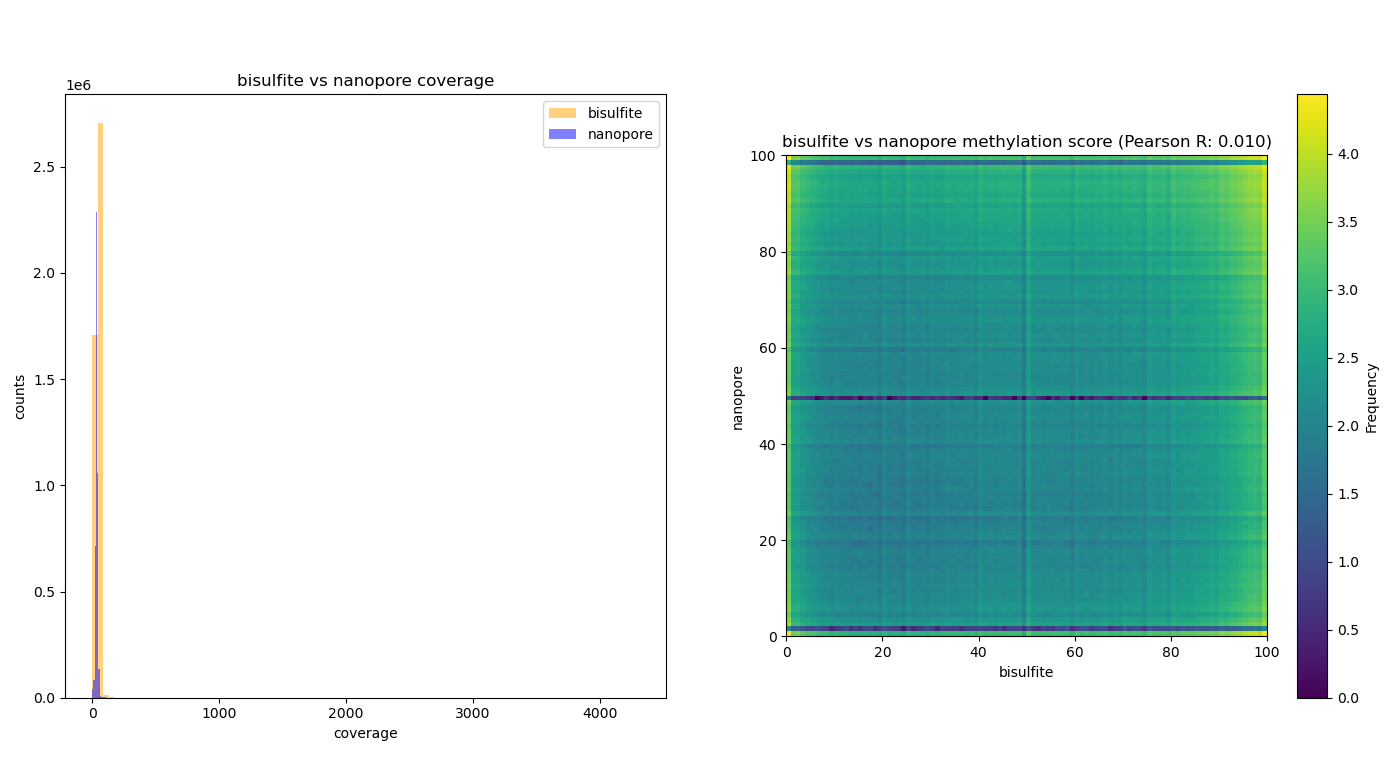
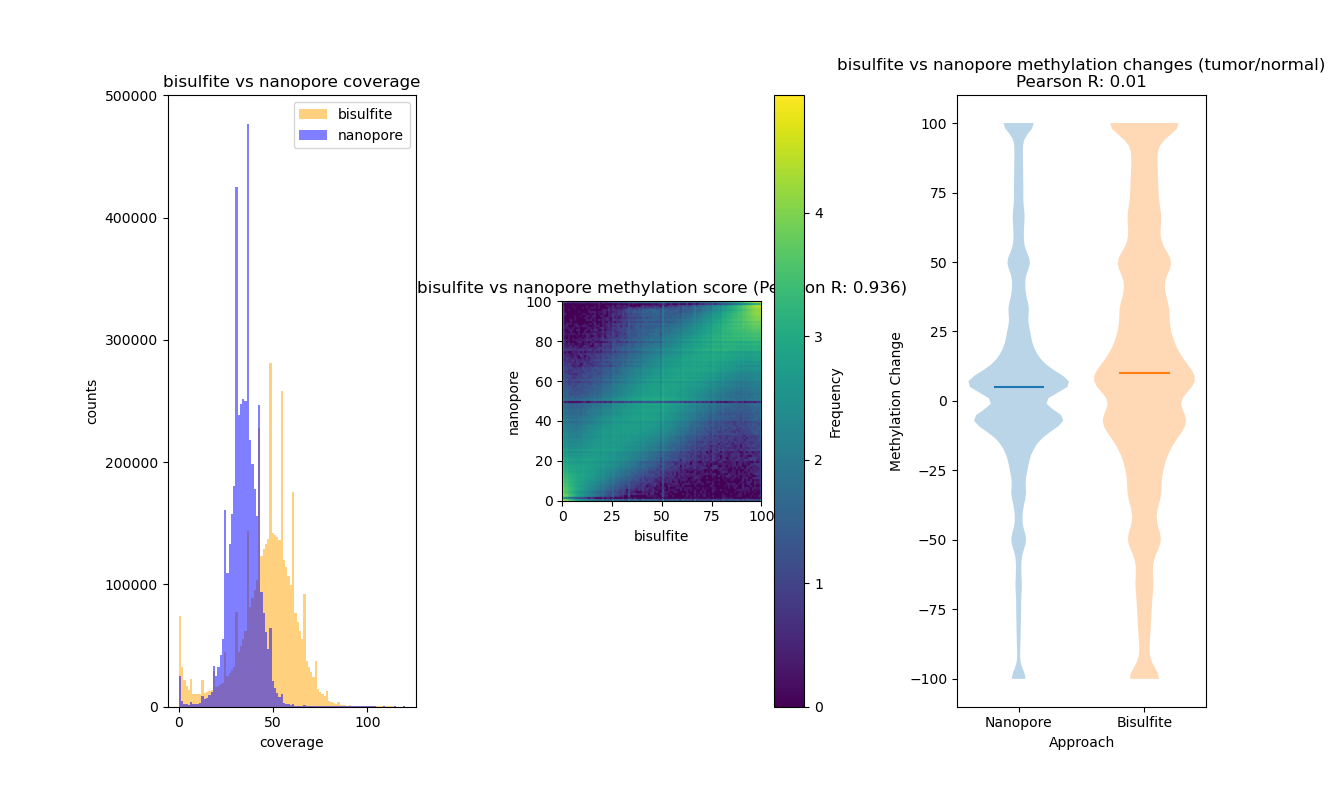
week7 re

diff --git a/week7/data/week7.py b/week7/data/week7.py
@@ -18,18 +18,16 @@ def compare(file1,file2):
     common_loc=pos1[pos1.isin(pos2)]
 
     diff=[]
-    a=0
-    b=1
+
+    Subset1 = file1.loc[file1['start'].isin(common_loc), :]
+    Subset2 = file2.loc[file2['start'].isin(common_loc), :]
+    Subset1 = Subset1.set_index('start')
+    Subset2 = Subset2.set_index('start')
+
     for i in common_loc:
-        #print(i)
-        ind1=int(pos1.index.get_loc(pos1[pos1 ==i].index[0]))
-        ind2=int(pos2.index.get_loc(pos2[pos2 ==i].index[0]))
-        #print(ind1)
-        if file2.loc[ind2,'methylation_score'] != file1.loc[ind1,'methylation_score']:
-            a=float(file2.loc[ind2,'methylation_score'])-float(file1.loc[ind1,'methylation_score'])
-            diff.append(a)
-        #print(diff)
-        a=0
+        if Subset1.loc[i,'methylation_score'] != Subset2.loc[i, 'methylation_score']:
+            diff.append(Subset2.loc[i,'methylation_score']-Subset1.loc[i,'methylation_score'])
+    
     diff=np.array(diff)
     return diff
 
@@ -46,6 +44,8 @@ def main():
     unique_nano=pos_nano[~pos_nano.isin(common_val)]  
     #plt.violinplot(common_val, positions=[1], widths=0.8, showmedians=True, showextrema=False)
 
+    # print(common_val)
+    # print(bis_file.loc[bis_file['start']==10270,'coverage'])
     print('unique site number in bisulfite: ',len(unique_bis))
     print('unique site number in bisulfite percentage: ',(len(unique_bis)/len(pos_bis))*100,'%')
     print('unique site number in nanopore: ',len(unique_nano))
@@ -56,15 +56,29 @@ def main():
 
     #Plot
     fig,ax = plt.subplots(nrows=1, ncols=3)
-    ax[0].hist(bis_file.loc[:,'coverage'],bins=100,alpha=0.5,color='orange',label='bisulfite')
-    ax[0].hist(nanopore_file.loc[:,'coverage'],bins=100,alpha=0.5,color='blue',label='nanopore')
+    ax[0].hist(bis_file.loc[:,'coverage'],bins=100,alpha=0.5,color='orange',label='bisulfite',range=(0,120))
+    ax[0].hist(nanopore_file.loc[:,'coverage'],bins=100,alpha=0.5,color='blue',label='nanopore',range=(0,120))
     ax[0].set_xlabel("coverage")
     ax[0].set_ylabel("counts")
     ax[0].set_title('bisulfite vs nanopore coverage') 
     ax[0].legend()
 
-    bis_score=bis_file.loc[:,'methylation_score']
-    nano_score=nanopore_file.loc[:,'methylation_score']
+    bis_score=[]
+    nano_score=[]
+
+    bisSubset = bis_file.loc[bis_file['start'].isin(common_val), :]
+    nanoSubset = nanopore_file.loc[nanopore_file['start'].isin(common_val), :]
+    bisSubset = bisSubset.set_index('start')
+    nanoSubset = nanoSubset.set_index('start')
+
+    for i in common_val:
+        bis_score.append(bisSubset.loc[i,'methylation_score'])
+        nano_score.append(nanoSubset.loc[i, 'methylation_score'])
+        #bis_score.append(bis_file.loc[bis_file['start']==i,'methylation_score'])
+        #nano_score.append(nanopore_file.loc[nanopore_file['start']==i,'methylation_score'])
+    bis_score=np.array(bis_score)
+    nano_score=np.array(nano_score)
+
     min_length = min(len(nano_score), len(bis_score))
     nano_scorepad = np.pad(nano_score, (0, max(0, len(bis_score) - len(nano_score))), mode='constant')
     hist, xedges, yedges = np.histogram2d(bis_score, nano_scorepad, bins=100)
@@ -77,7 +91,7 @@ def main():
 
     p_corr = np.corrcoef(bis_score, nano_scorepad)[0, 1]
     ax[1].set_title(f'bisulfite vs nanopore methylation score (Pearson R: {p_corr:.3f})')
-    
+
     nornano_file=parse_bedgraph("normal.ONT.chr2.bedgraph")
     tunano_file=parse_bedgraph("tumor.ONT.chr2.bedgraph")
     norbis_file=parse_bedgraph("normal.bisulfite.chr2.bedgraph")
@@ -85,6 +99,10 @@ def main():
 
     diffnano=compare(norbis_file,tubis_file)
     diffbis=compare(nornano_file,tunano_file)
+    min_length = min(len(diffbis), len(diffnano))
+    diffbispad = np.pad(diffbis, (0, max(0, len(diffnano) - len(diffbis))), mode='constant')
+    print(len(diffbispad))
+    print(len(diffnano))
 
     ax[2].violinplot(diffnano, positions=[1], widths=0.8, showmedians=True, showextrema=False)
     ax[2].violinplot(diffbis, positions=[2], widths=0.8, showmedians=True, showextrema=False)
@@ -92,23 +110,10 @@ def main():
     ax[2].set_xticklabels(['Nanopore', 'Bisulfite'])
     ax[2].set_xlabel('Approach')
     ax[2].set_ylabel('Methylation Change')
-    corr_diff = np.corrcoef(diffnano, diffbis)[0, 1]
+    corr_diff = np.corrcoef(diffbispad, diffnano)[0, 1]
     ax[2].set_title('bisulfite vs nanopore methylation changes (tumor/normal)\nPearson R: {:.2f}'.format(corr_diff))
     plt.show()
 
 
-
-
-
-
-
-
 if __name__ == "__main__":
-    main()
-
-    # bismark_only, nanopore_only, shared, shared_percentage = calculate_comparison_stats(bismark_file_path, nanopore_file_path)
-
-    # print(f"only in normal file: {bismark_only}")
-    # print(f"only in nanopore file: {nanopore_only}")
-    # print(f"shared sites: {shared}")
-    # print(f"% shared sites: {shared_percentage:.2f}%")
+    main()  
